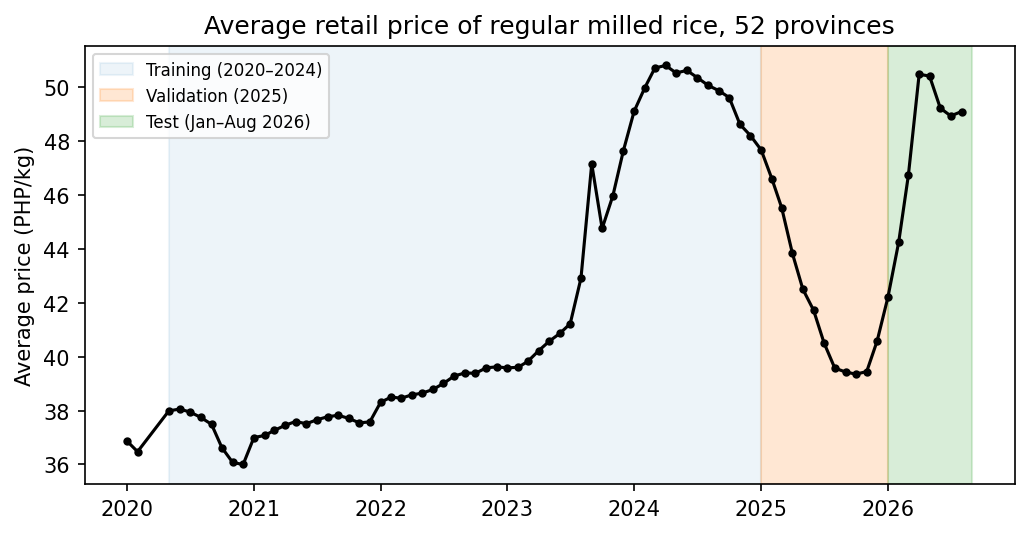
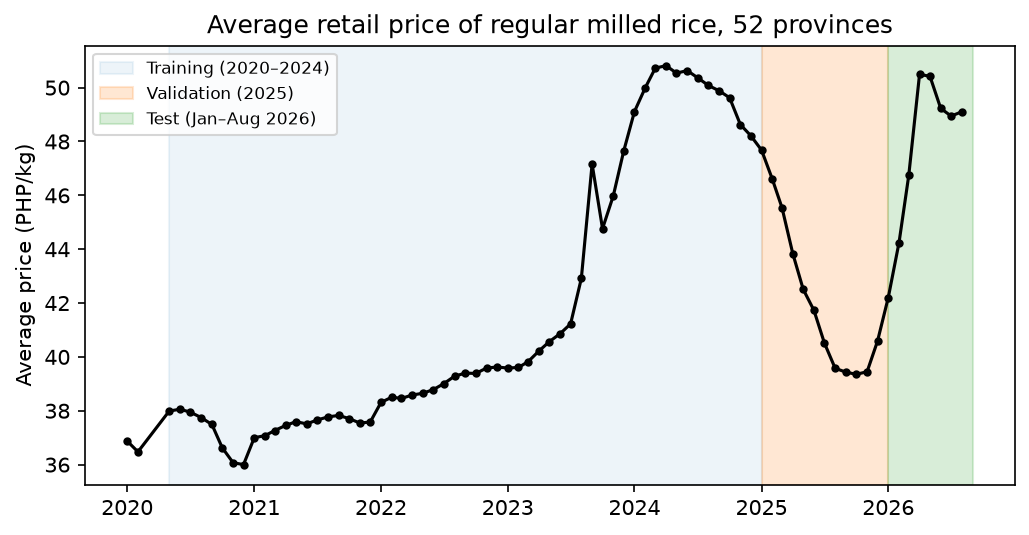
chore: updated content

diff --git a/docs/content.js b/docs/content.js
@@ -1,17 +1,17 @@
 const CONTENT = {
     title: "kAInan: Predicting Next Month Provincial Rice Prices in the Philippines with Ridge Regression, kNN, and MLP",
-    members: '<a href="#">Alyssa Kristelle Dela Cruz</a>, <a href="#">Avigail Ann A. Monsalud</a>, <a href="#">Natasha Lois S. Montas</a>, <a href="#">Rex Robert L. Roxas</a><br>',
+    members: 'Alyssa Kristelle Dela Cruz, Avigail Ann A. Monsalud, Natasha Lois S. Montas, Rex Robert L. Roxas<br>',
 
     links: `
-        <a href="https://github.com/eeveevv/CMSC170_FinalProject.git" target="_blank">Code</a>
-        <a href="https://canva.link/vhqm3nkaetpkmc8" target="_blank">Slides 1</a>
-        <a href="https://canva.link/hba0w8kt4syrapw" target="_blank">Slides 2</a>
-        <a href="https://canva.link/ubhmlb5n2a30ivx" target="_blank">Slides 3</a>
+        <a href="https://github.com/eeveevv/CMSC170_FinalProject.git" target="_blank">Github Code</a><br>
+        <a href="https://canva.link/vhqm3nkaetpkmc8" target="_blank">Milestone 1 Slides</a><br>
+        <a href="https://canva.link/hba0w8kt4syrapw" target="_blank">Milestone 2 Slides</a><br>
+        <a href="https://canva.link/ubhmlb5n2a30ivx" target="_blank">Milestone 3 Slides</a>
     `,
 
     abstract: `
-        <p>Food security is a problem in the Philippines, and the affordability of food affects whether households can access adequate diets. Since rice is a staple food for Filipino households, changes in its price can affect household budgets and food access.</p>
-        <p>This project predicts the next month's provincial retail price of regular milled rice using recent price information and time-related features. K-Nearest Neighbors Regression, Ridge Regression, and a Multilayer Perceptron built from scratch were compared against a persistence baseline.</p>
+        <p>Food security is a common problem among Filipino households, mainly due to unaffordability. Among the possible foods that Filipinos can afford, rice is a staple, as it takes up much of their diet. Thus, predicting the next month’s price of rice can help households, local government units (LGUs), and retailers on their budgeting and purchases. This project assesses the ability of different machine learning models to predict the next month’s price of rice.</p>
+        <p>The project uses three different models, k-Nearest Neighbor Regression, Ridge Regression, and Multilayer Perceptron to predict the next month’s price of rice. These models were compared to a baseline persistence model for its prediction. The models were tuned on 2025 data and tested once on January–August 2026. On the test set, the Multilayer Perceptron performed best (MAE ₱1.83/kg, R2 0.748) and was the only model to beat the baseline on every metric. It was followed by the baseline (MAE ₱2.00/kg), Ridge Regression (MAE ₱2.17/kg), and k-Nearest Neighbors (MAE ₱3.03/kg).</p>
     `,
 
     rationale: `
@@ -34,7 +34,7 @@ const CONTENT = {
 
     problem: `
         <p class="callout">
-            <p>Can we predict next month’s retail rice price (₱/kg) in a province from its recent prices, the prices of other food items, and the time of year?</p>
+            <p>Can we predict next month’s retail rice price (₱/kg) in a province from its recent prices, the national price trend, and the time of year?</p>
         </p>
     `,
 
@@ -47,9 +47,9 @@ const CONTENT = {
 
         <h3>K-Nearest Neighbors</h3>
 
-        <p>K-Nearest Neighbor estimates the target variable using a weighted average of the K-Nearest Neighbors.</p>
-        <p>K-Nearest Neighbors fits because the dataset includes records of prices for different provinces of the different months from the previous years. For a new month, it can find past months that looked similar (eg: change in price for non-rice commodities), and predicts the retail price of the milled rice will move the way it did after those months.</p>
-        <p>A previous study predicted which news topics would go viral on Twitter before Twitter declared them viral, 79% of the time, with a 95% true positive rate and 4% false positive rate [7]. Since kernel classifiers, like kNN, predict from similarly labeled history, this supports using neighbor-based methods on our dataset [8].</p>
+        <p>K-Nearest Neighbor estimates the target variable using an average of the K-Nearest Neighbors.</p>
+        <p>K-Nearest Neighbors fits because the dataset includes records of prices for different provinces of the different months from the previous years. For a new month, it can find past months that looked similar (eg., a similar national price, recent price change, and price gap), and predicts the retail price of the milled rice will move the way it did after those months.</p>
+        <p>A previous study predicted which news topics would trend on Twitter before Twitter declared them trending, 79% of the time, with a 95% true positive rate and 4% false positive rate [7]. Since kernel classifiers, like kNN, predict from similarly labeled history, this supports using neighbor-based methods on our dataset [8].</p>
 
         <h3>Ridge Regression</h3>
 
@@ -59,7 +59,7 @@ const CONTENT = {
         <h3>Multilayer Perceptron</h3>
 
         <p>Multilayer Perceptrons is a fundamental model, which uses a series of hidden weights to compute the output variable from the input variables [11].</p>
-        <p>The Multilayer Perceptron is a powerful improvement to the Perceptron, as it can capture non-linear decision boundaries and can be used in regression analysis [8]. The features in this study have varying scales and relationships, which may make it too complex for a regular Perceptron. With Multilayer Perceptrons, complex relationships within data that cannot be described by a linear decision boundary can be learned and used to generate more accurate predictions based on our data.</p>
+        <p>The Multilayer Perceptron is a powerful improvement to the Perceptron, as it can capture non-linear decision boundaries and can be used in regression analysis [11]. The features in this study have varying scales and relationships, which may make it too complex for a regular Perceptron. With Multilayer Perceptrons, complex relationships within data that cannot be described by a linear decision boundary can be learned and used to generate more accurate predictions based on our data.</p>
     `,
 
     setup: `
@@ -82,7 +82,7 @@ const CONTENT = {
 
                     <li>Several features were created:
                         <ol type="i">
-                            <li>Rice price in the current month and the previous 3 months</li>
+                            <li>National average rice price in each of the previous 3 months</li>
                             <li>Last month’s change in the national average rice price</li>
                             <li>Province’s price gap versus the national mean</li>
                             <li>Month</li>
@@ -119,53 +119,79 @@ const CONTENT = {
         </ol>
     `,
 
-    results: `
-        <h3>Validation set</h3>
+    baseline: `
+        <p>Each model was compared against a persistence baseline, which predicts that next month’s price will be the same as the market’s latest observed price. The baseline needs no training or tuning. It was scored on the same validation and test sets with the same metrics.</p>
+    `,
 
-        <p>Table 1 presents the evaluation metrics for each model.</p>
+    eval_metrics: `
+        <p>The models were evaluated with four metrics, shown in Table 1.</p>
+
+        <p><b>Table 1.</b> Evaluation metrics</p>
+
+        <table>
+        <tr><th>Metric</th><th>Unit</th><th>What it tells us</th></tr>
+        <tr><td>Mean Absolute Error (MAE)</td><td>₱/kg</td><td>On average, how far off is the ₱/kg prediction</td></tr>
+        <tr><td>Root Mean Squared Error (RMSE)</td><td>₱/kg</td><td>Similar to MAE, but big misses have a heavier effect</td></tr>
+        <tr><td>Mean Absolute Percentage Error (MAPE)</td><td>%</td><td>The average error as a percentage of the actual price</td></tr>
+        <tr><td>R-squared or Coefficient of Determination (R²)</td><td>none</td><td>The share of the variation in rice prices that the model explains. 1 is perfect, and 0 is no better than always predicting the average price</td></tr>
+        </table>
+
+        <p>We also recorded the time each model took to train and produce its predictions.</p>
+        `,
+
+    results: `
+        <h3>Validation Set</h3>
+
+        <p>Table 2 presents the evaluation metrics for each model on the validation set (2025).</p>
+
+        <p><b>Table 2.</b> Validation set results (2025)</p>
 
         <div class="table-wrap">
             <table>
                 <thead>
                     <tr>
                         <th>Model</th>
-                        <th>Mean Absolute Error (MAE)</th>
-                        <th>Root Mean Squared Error (RMSE)</th>
-                        <th>Mean Absolute Percentage Error (MAPE)</th>
+                        <th>MAE (₱/kg)</th>
+                        <th>RMSE (₱/kg)</th>
+                        <th>MAPE</th>
                         <th>R²</th>
+                        <th>Time (s)</th>
                     </tr>
                 </thead>
                 <tbody>
-                    <tr><td>Baseline</td><td>1.1871</td><td>1.8138</td><td>2.8096</td><td>0.8388</td></tr>
-                    <tr><td>Ridge Regression</td><td>1.6819</td><td>2.1646</td><td>4.0171</td><td>0.7704</td></tr>
-                    <tr><td>k-Nearest Neighbor</td><td>2.1280</td><td>2.7559</td><td>5.0160</td><td>0.6278</td></tr>
-                    <tr><td>Multilayer Perceptron</td><td>1.6778</td><td>2.2185</td><td>4.0269</td><td>0.7588</td></tr>
+                    <tr><td>Baseline</td><td>1.1871</td><td>1.8138</td><td>2.8096</td><td>0.8388</td><td>0.0000</td></tr>
+                    <tr><td>Ridge Regression</td><td>1.6819</td><td>2.1646</td><td>4.0171</td><td>0.7704</td><td>0.0010</td></tr>
+                    <tr><td>k-Nearest Neighbor</td><td>2.1280</td><td>2.7559</td><td>5.0160</td><td>0.6278</td><td>2.4212</td></tr>
+                    <tr><td>Multilayer Perceptron</td><td>1.6778</td><td>2.2185</td><td>4.0269</td><td>0.7588</td><td>0.0045</td></tr>
                 </tbody>
             </table>
         </div>
 
         <p>The baseline model performs the best on the validation set, with the lowest MAE (1.1871), RMSE (1.8138), and MAPE (2.8096%) and the highest R² (0.8388). Ridge Regression performs second best, with a better RMSE (2.1646), MAPE (4.0171%), and R² (0.7704) than the Multilayer Perceptron. It is only slightly worse on MAE (1.6819 vs. 1.6778). The Multilayer Perceptron follows closely, with an RMSE of 2.2185, a MAPE of 4.0269%, and an R² of 0.7588. K-Nearest Neighbors performs the worst, with an MAE of 2.1280, RMSE of 2.7559, MAPE of 5.0160%, and R² of 0.6278.</p>
 
-        <h3>Test set</h3>
+        <h3>Test Set</h3>
 
-        <p>Table 2 presents the evaluation metrics for each model.</p>
+        <p>Table 3 presents the evaluation metrics for each model on the test set (January–August 2026).</p>
+
+        <p><b>Table 3.</b> Test set results (January–August 2026)</p>
 
         <div class="table-wrap">
             <table>
                 <thead>
                     <tr>
                         <th>Model</th>
-                        <th>Mean Absolute Error (MAE)</th>
-                        <th>Root Mean Squared Error (RMSE)</th>
-                        <th>Mean Absolute Percentage Error (MAPE)</th>
+                        <th>MAE (₱/kg)</th>
+                        <th>RMSE (₱/kg)</th>
+                        <th>MAPE</th>
                         <th>R²</th>
+                        <th>Time (s)</th>
                     </tr>
                 </thead>
                 <tbody>
-                    <tr><td>Baseline</td><td>2.0003</td><td>2.9083</td><td>4.4154</td><td>0.6446</td></tr>
-                    <tr><td>Ridge Regression</td><td>2.1664</td><td>2.7760</td><td>4.8400</td><td>0.6762</td></tr>
-                    <tr><td>k-Nearest Neighbor</td><td>3.0288</td><td>4.1244</td><td>6.8626</td><td>0.2853</td></tr>
-                    <tr><td>Multilayer Perceptron</td><td>1.8333</td><td>2.4479</td><td>4.0325</td><td>0.7482</td></tr>
+                    <tr><td>Baseline</td><td>2.0003</td><td>2.9083</td><td>4.4154</td><td>0.6446</td><td>0.0000</td></tr>
+                    <tr><td>Ridge Regression</td><td>2.1664</td><td>2.7760</td><td>4.8400</td><td>0.6762</td><td>0.0010</td></tr>
+                    <tr><td>k-Nearest Neighbor</td><td>3.0288</td><td>4.1244</td><td>6.8626</td><td>0.2853</td><td>1.6631</td></tr>
+                    <tr><td>Multilayer Perceptron</td><td>1.8333</td><td>2.4479</td><td>4.0325</td><td>0.7482</td><td>0.0091</td></tr>
                 </tbody>
             </table>
         </div>
@@ -174,13 +200,13 @@ const CONTENT = {
     `,
 
     discussion: `
-        <p>The baseline model performed well on the validation data, but performed worse in the test dataset. This can be attributed to the data in the validation dataset having less fluctuation in prices across months, and thus using the previous month for predicting the current month’s prices will result in a better performance. However, it is possible that there is a large fluctuation in the price of rice in the test dataset, and thus using the previous month’s prices for predicting the current month’s prices will not be as accurate.</p>
+        <p>The baseline model performed well on the validation data, but performed worse in the test dataset. This can be attributed to the data in the validation dataset having less fluctuation in prices across months, and thus using the previous month for predicting the current month’s prices will result in a better performance. However, it is possible that there is a large fluctuation in the price of rice in the test dataset, and thus using the previous month for predicting the current month’s prices will not be as accurate.</p>
 
-        <p>The k-nearest neighbors performed badly on the dataset both in the validation and test metrics. This may be due to the features being structured in a way that similar data points in terms of features do not have a similar price.</p>
+        <p>The k-Nearest Neighbors performed badly on the dataset both in the validation and test sets. This may be due to the features being structured in a way that similar data points in terms of features do not have a similar price. In addition, since kNN predicts an average of past prices, it cannot predict prices higher than those in the training data.</p>
 
-        <p>The Ridge Regression performed well on the dataset in the validation, but performed slightly worse on the test metrics. This may be due to the fact that the relationship between the features and the output variables are easily defined linearly, especially in the validation phase. However, some relationships between the features and output variables were not as easily defined linearly as seen in its performance on the test data, possibly due to an external force that is not accounted for in the model.</p>
+        <p>The Ridge Regression performed well on the validation set, but performed slightly worse on the test set. This may be because the relationship between the features and the output variables is easily defined linearly, especially in the validation phase. However, some relationships between the features and output variables were not as easily defined linearly as seen in its performance on the test data, possibly due to an external force that is not accounted for in the model, such as the sudden rise in the prices in early 2026.</p>
 
-        <p>The Multilayer Perceptron performed well on the dataset in the validation and test metrics. This can be explained by the possible nonlinear relationship between the features and the predicted variables.</p>
+        <p>The Multilayer Perceptron performed well on the dataset in the validation and test metrics. This can be explained by the possible nonlinear relationship between the features and the predicted variables. Its error rose only slightly from validation to test (MAE 1.68 to 1.83), while the other models’ errors rose more, which suggests it adapted better to the change in the price trend.</p>
     `,
 
     conclusion: `
@@ -201,7 +227,13 @@ const CONTENT = {
 
             <li>World Food Programme, “Philippines – Food Prices,” Humanitarian Data Exchange. Accessed: Oct. 27, 2026. [Online]. Available: <a href="https://data.humdata.org/dataset/wfp-food-prices-for-philippines" target="_blank">https://data.humdata.org/dataset/wfp-food-prices-for-philippines</a></li>
 
+            <li>S. Nikolov and D. Shah, “A nonparametric method for early detection of trending topics,” presented at the Interdisciplinary Workshop on Information and Decision in Social Networks, 2012.</li>
+
+            <li>G. H. Chen and D. Shah, “Explaining the Success of Nearest Neighbor Methods in Prediction,” <em>Foundations and Trends in Machine Learning</em>, vol. 10, no. 5–6, pp. 337–588, May 2018, doi: 10.1561/2200000064.</li>
+
             <li>J. Murel and E. Kavlakoglu, “What is ridge regression?,” IBM, Sep. 21, 2023. [Online]. Available: <a href="https://www.ibm.com/think/topics/ridge-regression" target="_blank">https://www.ibm.com/think/topics/ridge-regression</a></li>
+
+            <li>T. Hastie, R. Tibshirani, and J. Friedman, <em>The Elements of Statistical Learning: Data Mining, Inference, and Prediction</em>, 2nd ed. New York, NY, USA: Springer, 2009, sec. 3.4.1.</li>
 
             <li>D. Saini, “Deep Learning Specialization: Understanding Multi-Layer Perceptron (MLP) Inside Out,” Medium, Aug. 31, 2025. <a href="https://medium.com/data-science-collective/deep-learning-specialization-understanding-multi-layer-perceptron-mlp-inside-out-f3ff465a521f" target="_blank">https://medium.com/data-science-collective/deep-learning-specialization-understanding-multi-layer-perceptron-mlp-inside-out-f3ff465a521f</a> (accessed Oct. 27, 2026).</li>
 
@@ -210,17 +242,4 @@ const CONTENT = {
     disclosure: `
         <p>All models and evaluation metrics were implemented from scratch using only NumPy, Matplotlib, and the Python standard library, without any machine learning libraries. The online sources we learned from are cited in the References and in the code comments. We also used Claude (Anthropic) to explain concepts and review our code and reports. All AI-assisted code and text were checked, run, and edited by the group, and all reported results come from running our own code.</p>
     `,
-
-    repo: `
-        <p><strong>GitHub Repository:</strong>
-        <a href="https://github.com/eeveevv/CMSC170_FinalProject.git" target="_blank">CMSC170_FinalProject</a></p>
-
-        <p><strong>Project Slides:</strong></p>
-
-        <ul>
-            <li><a href="https://canva.link/vhqm3nkaetpkmc8" target="_blank">Slides 1</a></li>
-            <li><a href="https://canva.link/hba0w8kt4syrapw" target="_blank">Slides 2</a></li>
-            <li><a href="https://canva.link/ubhmlb5n2a30ivx" target="_blank">Slides 3</a></li>
-        </ul>
-    `
 };

diff --git a/docs/index.html b/docs/index.html
@@ -1,4 +1,3 @@
-
 <!DOCTYPE html>
 <html lang="en">
 <head>
@@ -68,7 +67,6 @@
     <header>
         <h1 data-content="title"></h1>
         <div data-content="members"></div>
-        <div data-content="links"></div>
     </header>
 
     <hr>
@@ -80,14 +78,14 @@
 
     <hr>
 
-    <section id="problem">
+    <section id="rationale">
         <h2>Rationale</h2>
         <div data-content="rationale"></div>
     </section>
 
     <hr>
 
-    <section id="dataset">
+    <section id="problem">
         <h2>Problem Statement</h2>
         <div data-content="problem"></div>
     </section>
@@ -111,6 +109,16 @@
     <section id="setup" class="left">
         <h2>Experimental Setup</h2>
         <div data-content="setup"></div>
+
+        <h3>Baseline</h3>
+        <div data-content="baseline"></div>
+    </section>
+
+    <hr>
+
+    <section id="evaluation-metrics">
+        <h2>Evaluation Metrics</h2>
+        <div data-content="eval_metrics"></div>
     </section>
 
     <hr>
@@ -120,6 +128,8 @@
         <div data-content="results"></div>
 
         <h3>Figures</h3>
+        <h4>Price trend</h4>
+        <div data-figures="assets/price_trend.png|Average retail price of regular milled rice, 52 provinces"></div>
 
         <h4>Validation set</h4>
         <div data-figures="assets/error_bars_val.png|MAE and RMSE per method (validation);assets/pred_vs_actual_val.png|Predicted vs actual price per method (validation; red line = perfect prediction)"></div>
@@ -148,16 +158,15 @@
         <h2>References</h2>
         <div data-content="references"></div>
 
-        <h3>Code and AI Tool Disclosure</h3>
+    </section>
+        <hr>
+        <h2>Code and AI Tool Disclosure</h2>
         <div data-content="disclosure"></div>
-    </section>
+        <hr>
 
-    <hr>
-
-    <section id="repo">
         <h2>Repository and Slides</h2>
-        <div data-content="repo"></div>
-    </section>
+        <div data-content="links"></div>
+    <hr>
 
     <script src="content.js"></script>
     <script src="script.js"></script>

diff --git a/docs/assets/results_test.html b/docs/assets/results_test.html
@@ -1,7 +1,7 @@
 <table>
 <tr><th>Method</th><th>MAE</th><th>RMSE</th><th>MAPE</th><th>R2</th><th>Time</th></tr>
 <tr><td>Baseline</td><td>2.0003</td><td>2.9083</td><td>4.4154</td><td>0.6446</td><td>0.0000</td></tr>
-<tr><td>Ridge</td><td>2.0795</td><td>2.6998</td><td>4.6300</td><td>0.6938</td><td>0.0009</td></tr>
-<tr><td>KNN</td><td>3.0343</td><td>4.1255</td><td>6.8731</td><td>0.2850</td><td>2.5261</td></tr>
-<tr><td>MLP</td><td>1.8333</td><td>2.4479</td><td>4.0325</td><td>0.7482</td><td>0.0064</td></tr>
+<tr><td>Ridge</td><td>2.0795</td><td>2.6998</td><td>4.6300</td><td>0.6938</td><td>0.0008</td></tr>
+<tr><td>KNN</td><td>3.0343</td><td>4.1255</td><td>6.8731</td><td>0.2850</td><td>2.6938</td></tr>
+<tr><td>MLP</td><td>1.8333</td><td>2.4479</td><td>4.0325</td><td>0.7482</td><td>0.0071</td></tr>
 </table>

diff --git a/docs/assets/results_val.html b/docs/assets/results_val.html
@@ -1,7 +1,7 @@
 <table>
 <tr><th>Method</th><th>MAE</th><th>RMSE</th><th>MAPE</th><th>R2</th><th>Time</th></tr>
 <tr><td>Baseline</td><td>1.1871</td><td>1.8138</td><td>2.8096</td><td>0.8388</td><td>0.0000</td></tr>
-<tr><td>Ridge</td><td>1.6819</td><td>2.1646</td><td>4.0171</td><td>0.7704</td><td>0.0007</td></tr>
-<tr><td>KNN</td><td>2.1280</td><td>2.7559</td><td>5.0160</td><td>0.6278</td><td>3.3755</td></tr>
-<tr><td>MLP</td><td>1.6778</td><td>2.2185</td><td>4.0269</td><td>0.7588</td><td>0.0152</td></tr>
+<tr><td>Ridge</td><td>1.6819</td><td>2.1646</td><td>4.0171</td><td>0.7704</td><td>0.0008</td></tr>
+<tr><td>KNN</td><td>2.1280</td><td>2.7559</td><td>5.0160</td><td>0.6278</td><td>2.9555</td></tr>
+<tr><td>MLP</td><td>1.6778</td><td>2.2185</td><td>4.0269</td><td>0.7588</td><td>0.0064</td></tr>
 </table>

diff --git a/docs/script.js b/docs/script.js
@@ -1,13 +1,10 @@
-
 // 1. Display the content from content.js
-
 var boxes = document.querySelectorAll('[data-content]');
 
 for (var i = 0; i < boxes.length; i++) {
     var box = boxes[i];
     var name = box.dataset.content;
     var text = CONTENT[name];
-
     if (text) {
         box.innerHTML = text;
     }
@@ -34,7 +31,6 @@ for (var i = 0; i < figures.length; i++) {
         img.onerror = function() {
             this.parentElement.remove();
         };
-
         var caption = document.createElement('figcaption');
         caption.textContent = parts[1];
 
